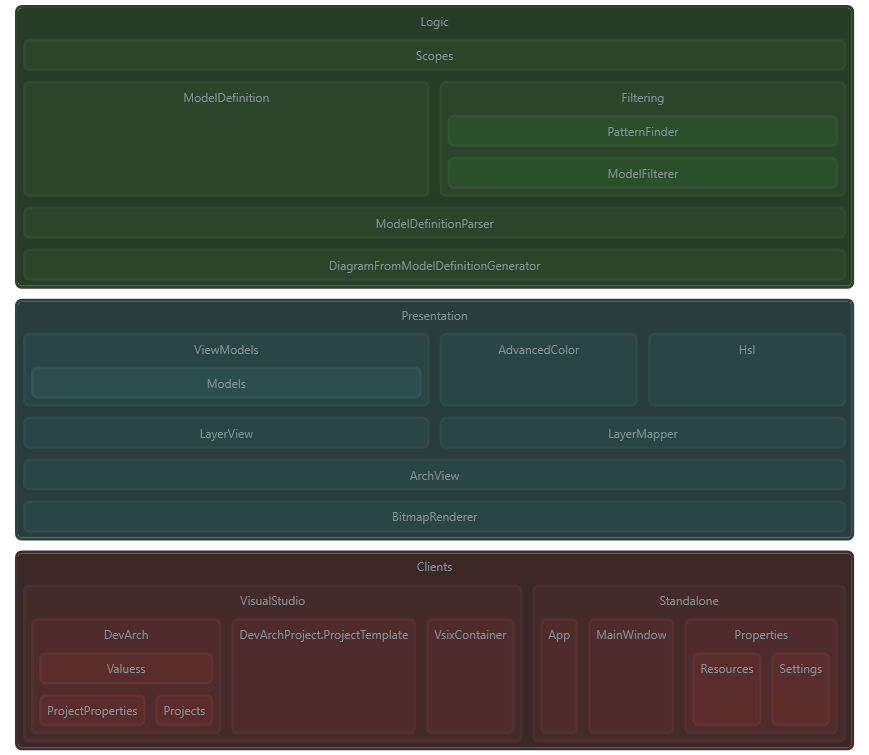
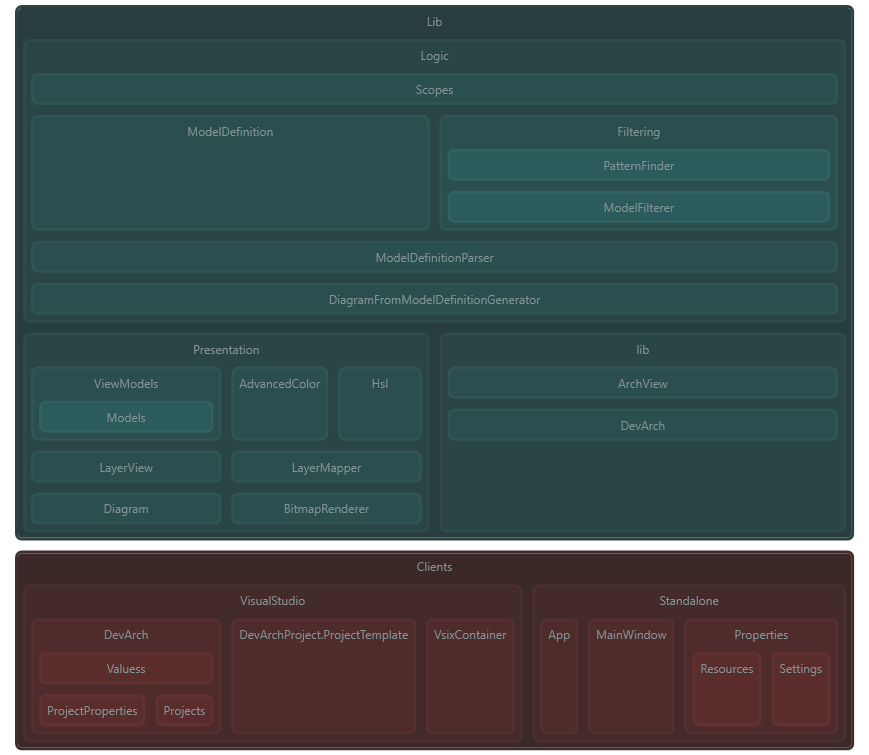
Added missing files

diff --git a/Lib/ArchView.xaml b/Lib/ArchView.xaml
@@ -1,0 +1,10 @@
+<UserControl x:Class="DevArch.lib.ArchView"
+             xmlns="http://schemas.microsoft.com/winfx/2006/xaml/presentation"
+             xmlns:x="http://schemas.microsoft.com/winfx/2006/xaml"
+             xmlns:mc="http://schemas.openxmlformats.org/markup-compatibility/2006" 
+             xmlns:d="http://schemas.microsoft.com/expression/blend/2008" 
+             xmlns:views="clr-namespace:Presentation.Views;assembly=Presentation"
+             mc:Ignorable="d" 
+             d:DesignHeight="300" d:DesignWidth="300">
+    <views:Diagram Name="Diagram" HorizontalAlignment="Left" VerticalAlignment="Top" Height="Auto" Width="Auto"/>
+</UserControl>

diff --git a/Lib/Properties/AssemblyInfo.cs b/Lib/Properties/AssemblyInfo.cs
@@ -1,0 +1,36 @@
+using System.Reflection;
+using System.Runtime.CompilerServices;
+using System.Runtime.InteropServices;
+
+// General Information about an assembly is controlled through the following 
+// set of attributes. Change these attribute values to modify the information
+// associated with an assembly.
+[assembly: AssemblyTitle("DevArch.lib")]
+[assembly: AssemblyDescription("")]
+[assembly: AssemblyConfiguration("")]
+[assembly: AssemblyCompany("")]
+[assembly: AssemblyProduct("DevArch.lib")]
+[assembly: AssemblyCopyright("Copyright ©  2015")]
+[assembly: AssemblyTrademark("")]
+[assembly: AssemblyCulture("")]
+
+// Setting ComVisible to false makes the types in this assembly not visible 
+// to COM components.  If you need to access a type in this assembly from 
+// COM, set the ComVisible attribute to true on that type.
+[assembly: ComVisible(false)]
+
+// The following GUID is for the ID of the typelib if this project is exposed to COM
+[assembly: Guid("dc505588-5385-4b7b-9432-fe0ebd560287")]
+
+// Version information for an assembly consists of the following four values:
+//
+//      Major Version
+//      Minor Version 
+//      Build Number
+//      Revision
+//
+// You can specify all the values or you can default the Build and Revision Numbers 
+// by using the '*' as shown below:
+// [assembly: AssemblyVersion("1.0.*")]
+[assembly: AssemblyVersion("1.0.0.0")]
+[assembly: AssemblyFileVersion("1.0.0.0")]

diff --git a/Lib/DevArch.cs b/Lib/DevArch.cs
@@ -1,0 +1,33 @@
+using System.IO;
+using Presentation;
+using EnvDTE;
+using Logic;
+
+namespace DevArch.lib
+{
+    public static class DevArch
+    {
+        public static void RenderAllArchDiagramsToFiles(_DTE enivorment)
+        {
+            var solutionDir = Path.GetDirectoryName(enivorment.Solution.FullName);
+            var modelGen = new DiagramFromModelDefinitionGenerator(enivorment);
+            var modelDefs = modelGen.GetModelDefinitions();
+            foreach (var modelDef in modelDefs)
+            {
+                var tree = modelGen.GenerateDiagram(modelDef);
+                var outputPath = solutionDir + "\\" + modelDef.Output.Path;
+                if (File.Exists(outputPath))
+                    File.Delete(outputPath);
+                BitmapRenderer.RenderTreeToBitmap(tree, outputPath, modelDef.Output);
+            }
+        }
+
+        public static void RenderCompleteDiagramToView(_DTE enivorment,ref ArchView view)
+        {
+            var modelGen = new DiagramFromModelDefinitionGenerator(enivorment);
+            var tree = modelGen.GenerateDiagram(ModelDefinition.RootDefault);
+            var viewModel = LayerMapper.TreeModelToArchViewModel(tree);
+            view.Diagram.RenderModel(viewModel);
+        }
+    }
+}

diff --git a/Lib/ArchView.xaml.cs b/Lib/ArchView.xaml.cs
@@ -1,0 +1,17 @@
+using System.Windows.Controls;
+using System.Windows.Markup;
+
+namespace DevArch.lib
+{
+    /// <summary>
+    /// Interaction logic for Diagram.xaml
+    /// </summary>
+    [ContentProperty("MainContent")]
+    public partial class ArchView : UserControl
+    {
+        public ArchView()
+        {
+            InitializeComponent();
+        }
+    }
+}
